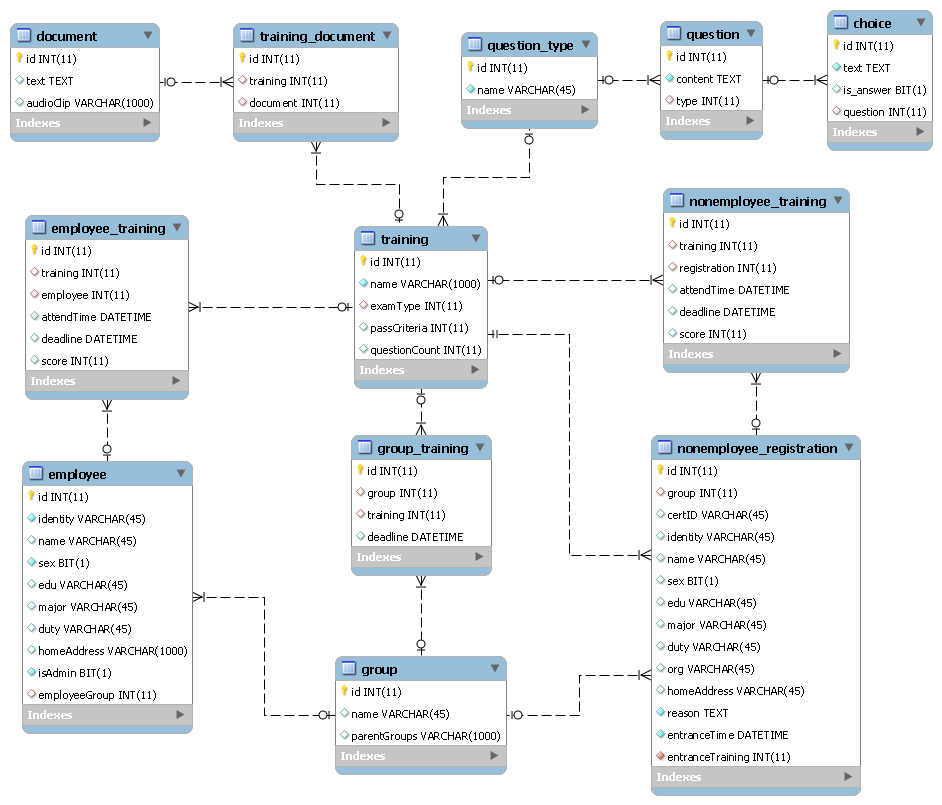
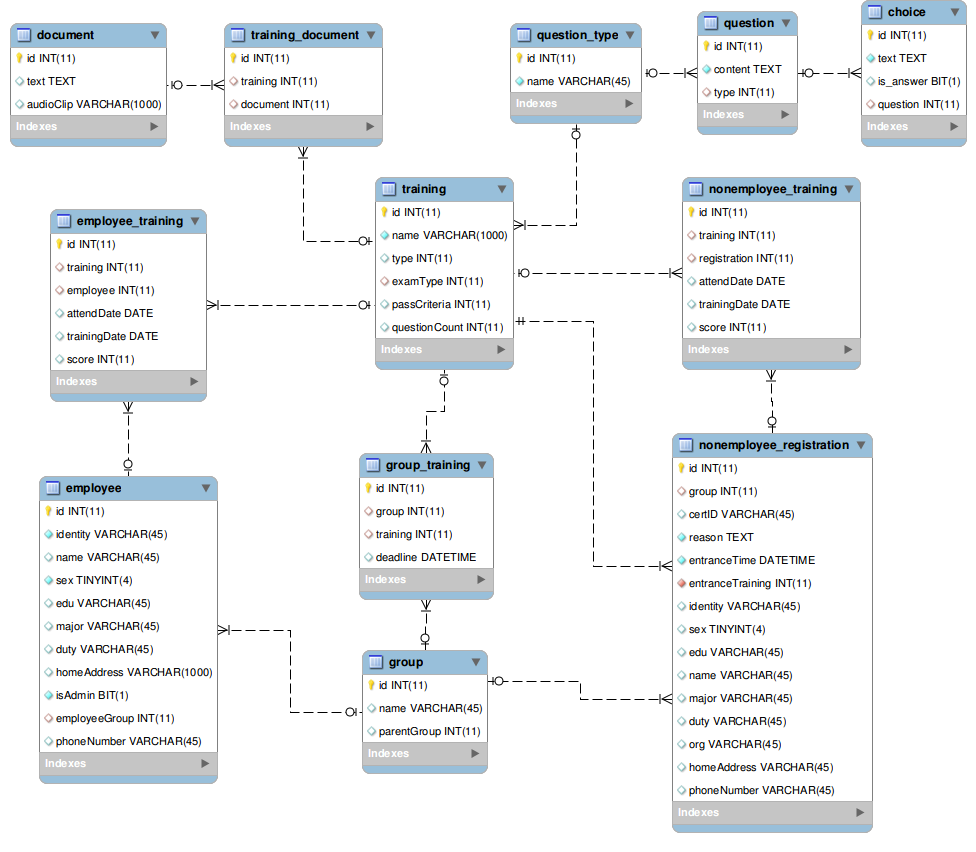
Refactor database to make it python queryable
enable etraining app

diff --git a/src/etraining/models.py b/src/etraining/models.py
@@ -1,17 +1,26 @@
+# This is an auto-generated Django model module.
+# You'll have to do the following manually to clean this up:
+#     * Rearrange models' order
+#     * Make sure each model has one field with primary_key=True
+# Feel free to rename the models, but don't rename db_table values or field names.
+#
+# Also note: You'll have to insert the output of 'django-admin.py sqlcustom [appname]'
+# into your database.
+
 from django.db import models
 
 class Choice(models.Model):
     id = models.IntegerField(primary_key=True)
     text = models.TextField()
-    is_answer = models.BooleanField(blank=True) 
-    question = models.ForeignKey(Question, null=True, db_column='question', blank=True)
+    is_answer = models.IntegerField(null=True, blank=True)
+    question = models.ForeignKey("Question", null=True, db_column='question', blank=True)
     class Meta:
         db_table = u'choice'
 
 class Document(models.Model):
     id = models.IntegerField(primary_key=True)
     text = models.TextField(blank=True)
-    audioclip = models.CharField(max_length=3000, db_column='audioClip', blank=True)
+    audioclip = models.CharField(max_length=3000, db_column='audioClip', blank=True) # Field name made lowercase.
     class Meta:
         db_table = u'document'
 
@@ -19,22 +28,23 @@ class Employee(models.Model):
     id = models.IntegerField(primary_key=True)
     identity = models.CharField(max_length=135, unique=True)
     name = models.CharField(max_length=135, blank=True)
-    sex = models.BooleanField() 
+    sex = models.IntegerField()
     edu = models.CharField(max_length=135, blank=True)
     major = models.CharField(max_length=135, blank=True)
     duty = models.CharField(max_length=135, blank=True)
-    homeaddress = models.CharField(max_length=3000, db_column='homeAddress', blank=True)
-    isadmin = models.BooleanField(db_column='isAdmin') 
-    employeegroup = models.ForeignKey(Group, null=True, db_column='employeeGroup', blank=True)
+    homeaddress = models.CharField(max_length=3000, db_column='homeAddress', blank=True) # Field name made lowercase.
+    isadmin = models.IntegerField(db_column='isAdmin') # Field name made lowercase.
+    employeegroup = models.ForeignKey("Group", null=True, db_column='employeeGroup', blank=True) # Field name made lowercase.
+    phonenumber = models.CharField(max_length=135, db_column='phoneNumber', blank=True) # Field name made lowercase.
     class Meta:
         db_table = u'employee'
 
 class EmployeeTraining(models.Model):
     id = models.IntegerField(primary_key=True)
-    training = models.ForeignKey(Training, null=True, db_column='training', blank=True)
-    employee = models.ForeignKey(Employee, null=True, db_column='employee', blank=True)
-    attendtime = models.DateTimeField(null=True, db_column='attendTime', blank=True)
-    deadline = models.DateTimeField(null=True, blank=True)
+    training = models.ForeignKey("Training", null=True, db_column='training', blank=True)
+    employee = models.ForeignKey("Employee", null=True, db_column='employee', blank=True)
+    attenddate = models.DateField(null=True, db_column='attendDate', blank=True) # Field name made lowercase.
+    trainingdate = models.DateField(null=True, db_column='trainingDate', blank=True) # Field name made lowercase.
     score = models.IntegerField(null=True, blank=True)
     class Meta:
         db_table = u'employee_training'
@@ -42,42 +52,43 @@ class EmployeeTraining(models.Model):
 class Group(models.Model):
     id = models.IntegerField(primary_key=True)
     name = models.CharField(max_length=135, blank=True)
-    parentgroups = models.CharField(max_length=3000, db_column='parentGroups', blank=True)
+    parentgroup = models.CharField(max_length=765, db_column='parentGroup', blank=True) # Field name made lowercase.
     class Meta:
         db_table = u'group'
 
 class GroupTraining(models.Model):
     id = models.IntegerField(primary_key=True)
-    group = models.ForeignKey(Group, null=True, db_column='group', blank=True)
-    training = models.ForeignKey(Training, null=True, db_column='training', blank=True)
+    group = models.ForeignKey("Group", null=True, db_column='group', blank=True)
+    training = models.ForeignKey("Training", null=True, db_column='training', blank=True)
     deadline = models.DateTimeField(null=True, blank=True)
     class Meta:
         db_table = u'group_training'
 
 class NonemployeeRegistration(models.Model):
     id = models.IntegerField(primary_key=True)
-    group = models.ForeignKey(Group, null=True, db_column='group', blank=True)
-    certid = models.CharField(max_length=135, db_column='certID', blank=True)
+    group = models.ForeignKey("Group", null=True, db_column='group', blank=True)
+    certid = models.CharField(max_length=135, db_column='certID', blank=True) # Field name made lowercase.
+    reason = models.TextField()
+    entrancetime = models.DateTimeField(db_column='entranceTime') # Field name made lowercase.
+    entrancetraining = models.ForeignKey("Training", db_column='entranceTraining') # Field name made lowercase.
     identity = models.CharField(max_length=135, blank=True)
-    name = models.CharField(max_length=135, blank=True)
-    sex = models.BooleanField(blank=True)
+    sex = models.IntegerField(null=True, blank=True)
     edu = models.CharField(max_length=135, blank=True)
+    name = models.CharField(max_length=135, blank=True)
     major = models.CharField(max_length=135, blank=True)
     duty = models.CharField(max_length=135, blank=True)
     org = models.CharField(max_length=135, blank=True)
-    homeaddress = models.CharField(max_length=135, db_column='homeAddress', blank=True)
-    reason = models.TextField()
-    entrancetime = models.DateTimeField(db_column='entranceTime')
-    entrancetraining = models.ForeignKey(Training, db_column='entranceTraining')
+    homeaddress = models.CharField(max_length=135, db_column='homeAddress', blank=True) # Field name made lowercase.
+    phonenumber = models.CharField(max_length=135, db_column='phoneNumber', blank=True) # Field name made lowercase.
     class Meta:
         db_table = u'nonemployee_registration'
 
 class NonemployeeTraining(models.Model):
     id = models.IntegerField(primary_key=True)
-    training = models.ForeignKey(Training, null=True, db_column='training', blank=True)
-    registration = models.ForeignKey(NonemployeeRegistration, null=True, db_column='registration', blan
-    attendtime = models.DateTimeField(null=True, db_column='attendTime', blank=True)
-    deadline = models.DateTimeField(null=True, blank=True)
+    training = models.ForeignKey("Training", null=True, db_column='training', blank=True)
+    registration = models.ForeignKey("NonemployeeRegistration", null=True, db_column='registration', blank=True)
+    attenddate = models.DateField(null=True, db_column='attendDate', blank=True) # Field name made lowercase.
+    trainingdate = models.DateField(null=True, db_column='trainingDate', blank=True) # Field name made lowercase.
     score = models.IntegerField(null=True, blank=True)
     class Meta:
         db_table = u'nonemployee_training'
@@ -85,7 +96,7 @@ class NonemployeeTraining(models.Model):
 class Question(models.Model):
     id = models.IntegerField(primary_key=True)
     content = models.TextField()
-    type = models.ForeignKey(QuestionType, null=True, db_column='type', blank=True)
+    type = models.ForeignKey("QuestionType", null=True, db_column='type', blank=True)
     class Meta:
         db_table = u'question'
 
@@ -98,16 +109,17 @@ class QuestionType(models.Model):
 class Training(models.Model):
     id = models.IntegerField(primary_key=True)
     name = models.CharField(max_length=3000)
-    examtype = models.ForeignKey(QuestionType, null=True, db_column='examType', blank=True)
-    passcriteria = models.IntegerField(null=True, db_column='passCriteria', blank=True)
-    questioncount = models.IntegerField(null=True, db_column='questionCount', blank=True)
+    type = models.IntegerField(null=True, blank=True)
+    examtype = models.ForeignKey("QuestionType", null=True, db_column='examType', blank=True) # Field name made lowercase.
+    passcriteria = models.IntegerField(null=True, db_column='passCriteria', blank=True) # Field name made lowercase.
+    questioncount = models.IntegerField(null=True, db_column='questionCount', blank=True) # Field name made lowercase.
     class Meta:
         db_table = u'training'
 
 class TrainingDocument(models.Model):
     id = models.IntegerField(primary_key=True)
-    training = models.ForeignKey(Training, null=True, db_column='training', blank=True)
-    document = models.ForeignKey(Document, null=True, db_column='document', blank=True)
+    training = models.ForeignKey("Training", null=True, db_column='training', blank=True)
+    document = models.ForeignKey("Document", null=True, db_column='document', blank=True)
     class Meta:
         db_table = u'training_document'
 

diff --git a/src/esafety/settings.py b/src/esafety/settings.py
@@ -12,9 +12,9 @@ MANAGERS = ADMINS
 DATABASES = {
     'default': {
         'ENGINE': 'django.db.backends.mysql', # Add 'postgresql_psycopg2', 'mysql', 'sqlite3' or 'oracle'.
-        'NAME': 'esafety',                      # Or path to database file if using sqlite3.
-        'USER': 'root',                      # Not used with sqlite3.
-        'PASSWORD': 'root',                  # Not used with sqlite3.
+        'NAME': 'esafety',               # Or path to database file if using sqlite3.
+        'USER': 'root',                  # Not used with sqlite3.
+        'PASSWORD': '',                  # Not used with sqlite3.
         'HOST': '',                      # Set to empty string for localhost. Not used with sqlite3.
         'PORT': '',                      # Set to empty string for default. Not used with sqlite3.
     }
@@ -77,7 +77,6 @@ STATICFILES_DIRS = (
 STATICFILES_FINDERS = (
     'django.contrib.staticfiles.finders.FileSystemFinder',
     'django.contrib.staticfiles.finders.AppDirectoriesFinder',
-#    'django.contrib.staticfiles.finders.DefaultStorageFinder',
 )
 
 # Make this unique, and don't share it with anybody.
@@ -87,7 +86,6 @@ SECRET_KEY = '+1!$fmk2!m15t%f6##b(6l^qks3e56%vxi3=%=adm#7#9*b12i'
 TEMPLATE_LOADERS = (
     'django.template.loaders.filesystem.Loader',
     'django.template.loaders.app_directories.Loader',
-#     'django.template.loaders.eggs.Loader',
 )
 
 MIDDLEWARE_CLASSES = (
@@ -96,8 +94,6 @@ MIDDLEWARE_CLASSES = (
     'django.middleware.csrf.CsrfViewMiddleware',
     'django.contrib.auth.middleware.AuthenticationMiddleware',
     'django.contrib.messages.middleware.MessageMiddleware',
-    # Uncomment the next line for simple clickjacking protection:
-    # 'django.middleware.clickjacking.XFrameOptionsMiddleware',
 )
 
 ROOT_URLCONF = 'esafety.urls'
@@ -122,6 +118,7 @@ INSTALLED_APPS = (
     # 'django.contrib.admin',
     # Uncomment the next line to enable admin documentation:
     # 'django.contrib.admindocs',
+    'etraining',
 )
 
 # A sample logging configuration. The only tangible logging
